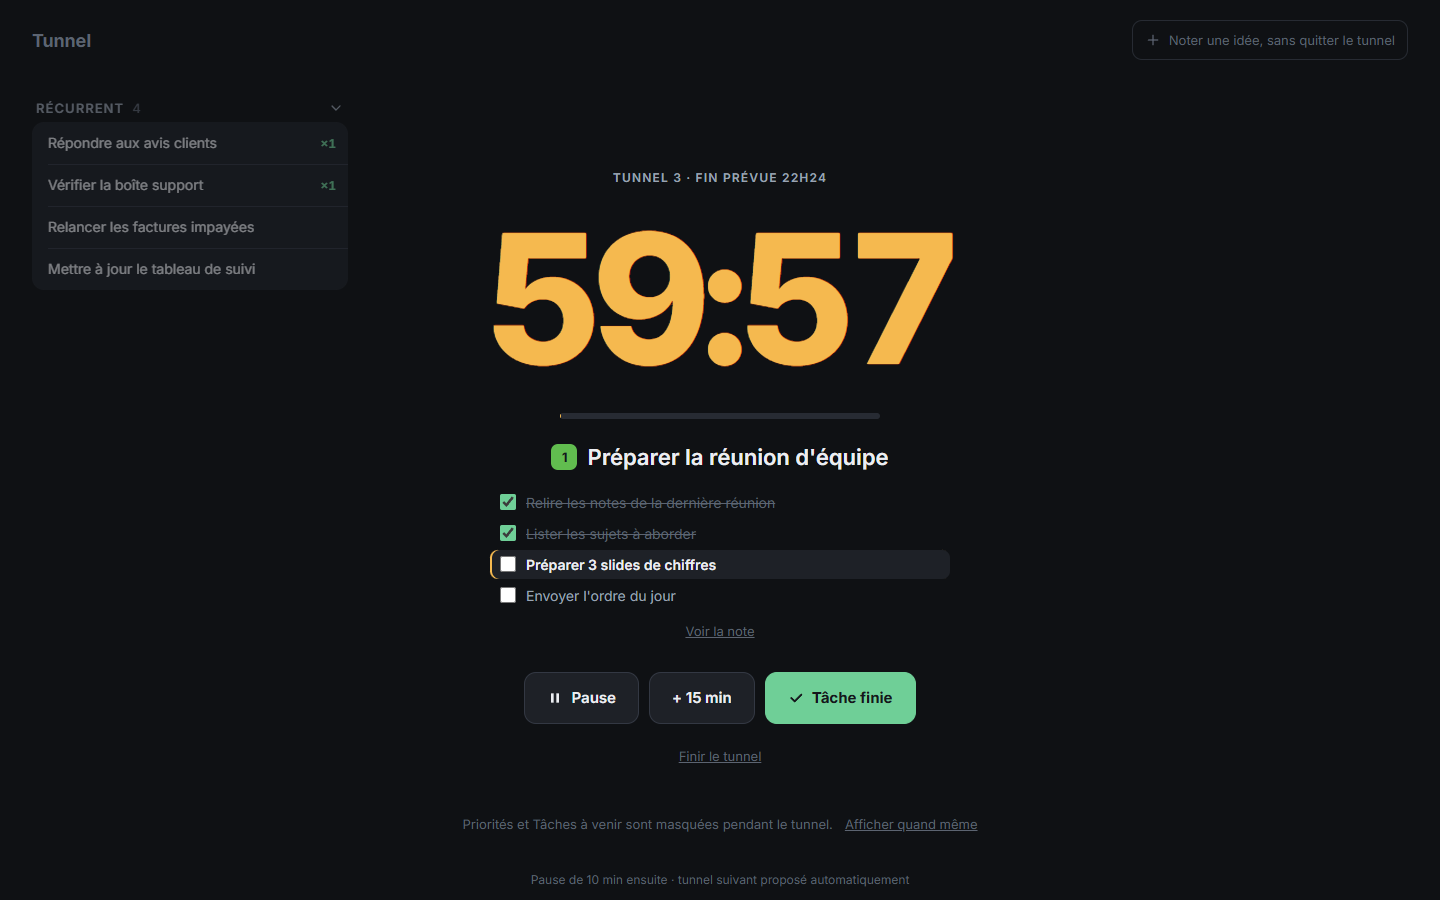
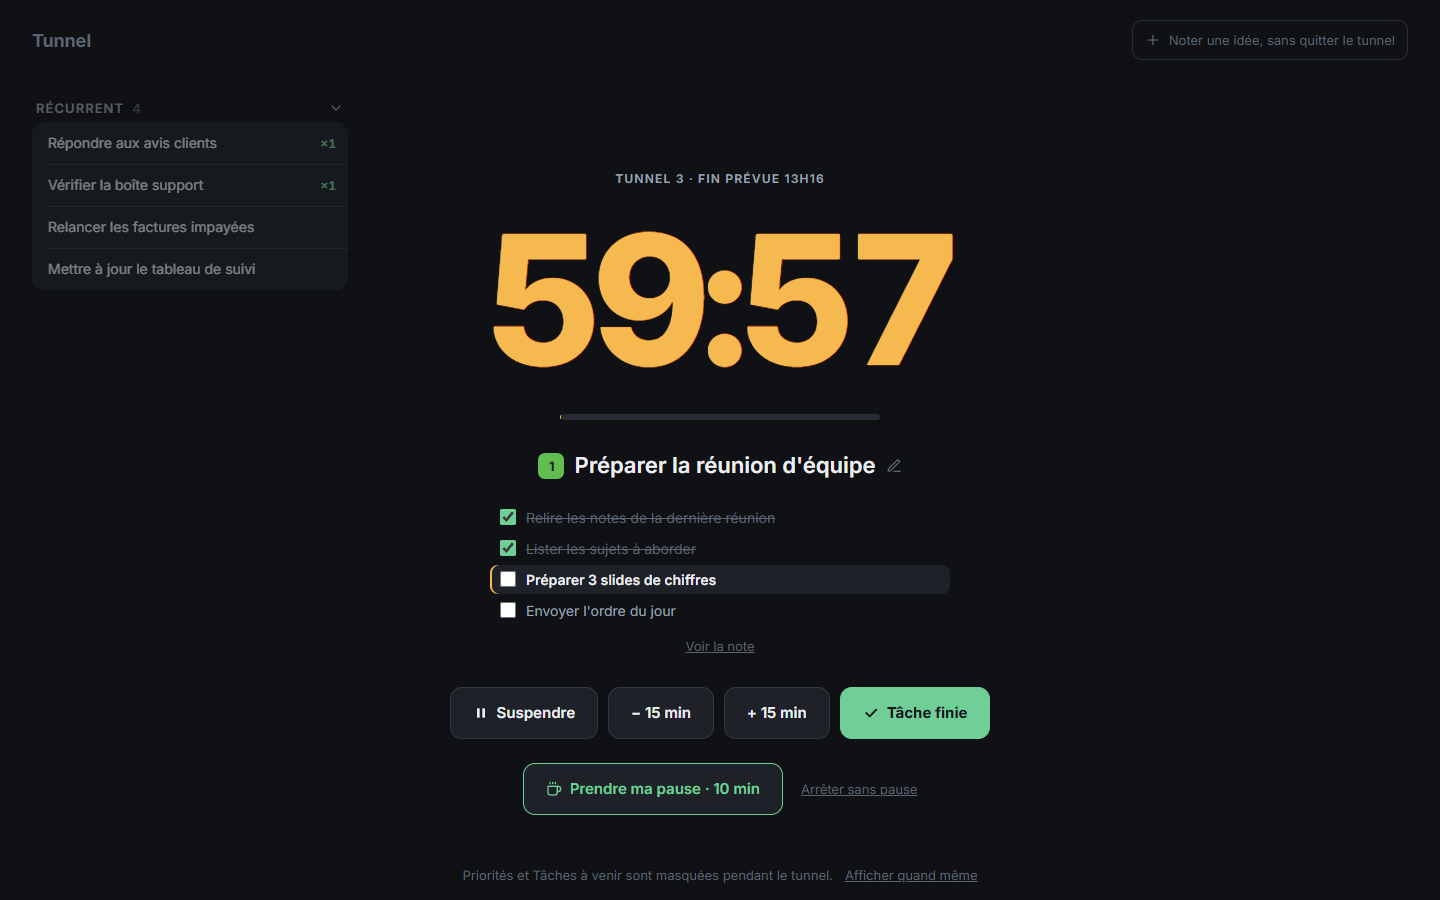
README : version 2.2 (pause, Suspendre, durées) et liens vers la 2.2.0

diff --git a/README.md b/README.md
@@ -14,15 +14,15 @@ Elle est pensée pour les cerveaux qui décrochent vite : un seul écran, peu de
 
 ### Sur Mac
 
-**[Télécharger Tunnel pour Mac (.dmg)](https://github.com/DweEroz/tunnel-pomodoro-tdah/releases/download/v2.0.0/Tunnel_2.0.0_universal.dmg)**
+**[Télécharger Tunnel pour Mac (.dmg)](https://github.com/DweEroz/tunnel-pomodoro-tdah/releases/download/v2.2.0/Tunnel_2.2.0_universal.dmg)**
 
 Ça marche sur tous les Mac récents, Intel comme Apple (M1, M2, M3, M4…).
 
-Sur Mac, c'est la version 2.0.0 : c'est normal. La version suivante arrivera toute seule, avec le bandeau « Mise à jour disponible » (voir [Mises à jour](#mises-à-jour)). Tu n'auras rien à retélécharger.
+Les mises à jour arrivent ensuite toutes seules, avec le bandeau « Mise à jour disponible » (voir [Mises à jour](#mises-à-jour)). Tu n'auras jamais rien à retélécharger.
 
 **1. Installer**
 
-1. Double-clique le fichier `Tunnel_2.0.0_universal.dmg` téléchargé. Une fenêtre s'ouvre.
+1. Double-clique le fichier `Tunnel_2.2.0_universal.dmg` téléchargé. Une fenêtre s'ouvre.
 2. Fais glisser l'icône **Tunnel** sur le dossier **Applications**.
 3. Ferme la fenêtre, puis éjecte le disque « Tunnel » dans le Finder (bouton ⏏ à côté de son nom).
 
@@ -59,9 +59,9 @@ Cette ligne retire juste l'étiquette « téléchargé depuis Internet » que le
 
 ### Sur Windows
 
-**[Télécharger Tunnel pour Windows (.exe)](https://github.com/DweEroz/tunnel-pomodoro-tdah/releases/download/v2.1.0/Tunnel_2.1.0_x64-setup.exe)**
+**[Télécharger Tunnel pour Windows (.exe)](https://github.com/DweEroz/tunnel-pomodoro-tdah/releases/download/v2.2.0/Tunnel_2.2.0_x64-setup.exe)**
 
-1. Double-clique le fichier `Tunnel_2.1.0_x64-setup.exe` téléchargé.
+1. Double-clique le fichier `Tunnel_2.2.0_x64-setup.exe` téléchargé.
 2. Si Windows affiche « Windows a protégé votre ordinateur » : clique **Informations complémentaires**, puis **Exécuter quand même**. Ce message apparaît parce que Tunnel n'est pas encore connu de Microsoft.
 3. Suis l'installation. Pas besoin d'être administrateur.
 4. Ouvre **Tunnel** depuis le menu Démarrer.
@@ -78,7 +78,7 @@ Au tout premier lancement, l'app est remplie de **cartes d'exemple** : chaque ti
 
 Tout tient sur un écran :
 
-- **Au centre, le minuteur.** Choisis « Tunnel » (60 min par défaut, ou 25, 45, 90, sans fin), « Pause » (10 min) ou « Grande pause » (30 min). La tâche affichée dessous est celle sur laquelle tu vas travailler.
+- **Au centre, le minuteur.** Choisis « Tunnel », « Pause » (10 min) ou « Grande pause » (30 min). Sous LANCER, les pastilles règlent la durée du tunnel : 25 min (le pomodoro classique), 45 min, 1h (par défaut), 1h30, ∞ (sans fin), ou **Autre** pour taper ta durée. La tâche affichée dessous est celle sur laquelle tu vas travailler.
 - **Dessous, les priorités du jour.** 3 places maximum, numérotées 1, 2, 3. C'est ce qui compte vraiment aujourd'hui. Clique un titre pour le mettre dans le minuteur. Coche la case quand c'est fini : la priorité part, les suivantes remontent.
 - **À droite, les tâches à venir**, rangées en 3 listes : « Bientôt », « Ça peut attendre » et « Un jour ». Seule « Bientôt » est ouverte ; clique sur les autres pour les déplier.
 - **À gauche, les récurrents** : les petites tâches de 2-3 minutes qui reviennent tous les jours (répondre aux avis, vérifier une boîte mail…).
@@ -93,12 +93,24 @@ Clique **LANCER**. L'écran se vide pour ne garder que l'essentiel.
 
 - Le **chrono** décompte, avec une barre de progression.
 - La **tâche en cours** est affichée dessous. Si elle a des étapes (sous-tâches), elles sont là aussi, cochables, la prochaine mise en avant.
-- **Pause** arrête le chrono un moment. **+ 15 min** rallonge le tunnel.
-- **Finir le tunnel** termine plus tôt : ton temps de concentration est quand même compté.
+- **Suspendre** fige le chrono un moment (un appel, quelqu'un à ton bureau). **Reprendre** le relance.
+- **− 15 min** et **+ 15 min** raccourcissent ou rallongent le tunnel. « − 15 min » est grisé quand il reste 15 minutes ou moins : il ne coupe jamais le tunnel par surprise.
+- **Prendre ma pause** : tu en as besoin maintenant ? Le tunnel s'arrête (ton temps de concentration est compté) et la pause démarre tout de suite.
+- **Arrêter sans pause** (lien discret) termine le tunnel et te ramène à l'écran principal.
+- Clique sur le **titre de la tâche** (petit crayon) pour la modifier, sans arrêter le chrono.
 - Les priorités et les tâches à venir sont cachées pour ne pas te distraire. Le lien **Afficher quand même** les montre si besoin.
 - Une idée te traverse la tête ? **Noter une idée, sans quitter le tunnel** (en haut à droite, ou Ctrl+K). Tu la rangeras à la fin du tunnel.
 
-Quand le temps est écoulé, un son retentit et une notification s'affiche. Tunnel te propose alors la pause (une grande pause tous les 4 tunnels), puis le tunnel suivant.
+Quand le temps est écoulé, un son retentit et une notification s'affiche. Tunnel te propose alors la pause : 10 min, ou une grande pause de 30 min tous les 4 tunnels.
+
+### Pendant la pause
+
+![Pendant la pause : le chrono vert et la tâche qui suivra](docs/img/14-pendant-la-pause.png)
+
+- Le chrono passe en vert, et **Ensuite** te rappelle sur quoi tu repartiras.
+- **Suspendre**, **− 15 min** et **+ 15 min** marchent comme pendant un tunnel.
+- **Reprendre le tunnel** coupe la pause et relance un tunnel sur la tâche « Ensuite ».
+- Tes récurrents restent à gauche : une petite tâche de 2 minutes pendant la pause, c'est permis.
 
 ### « Tâche finie » et l'enchaînement automatique
 
